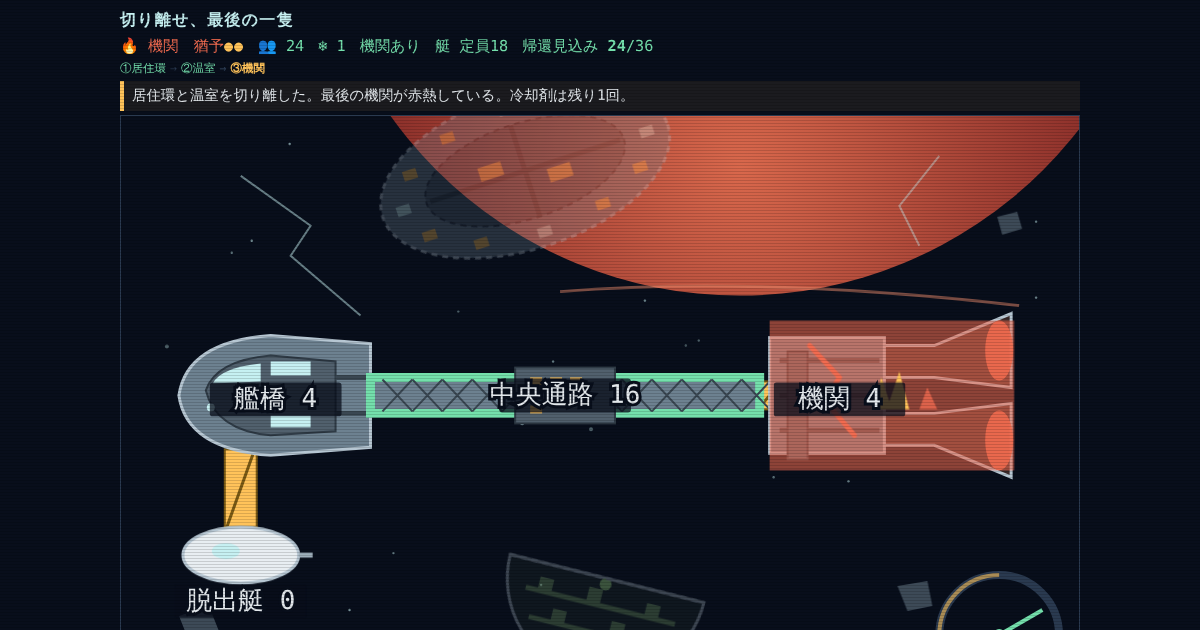
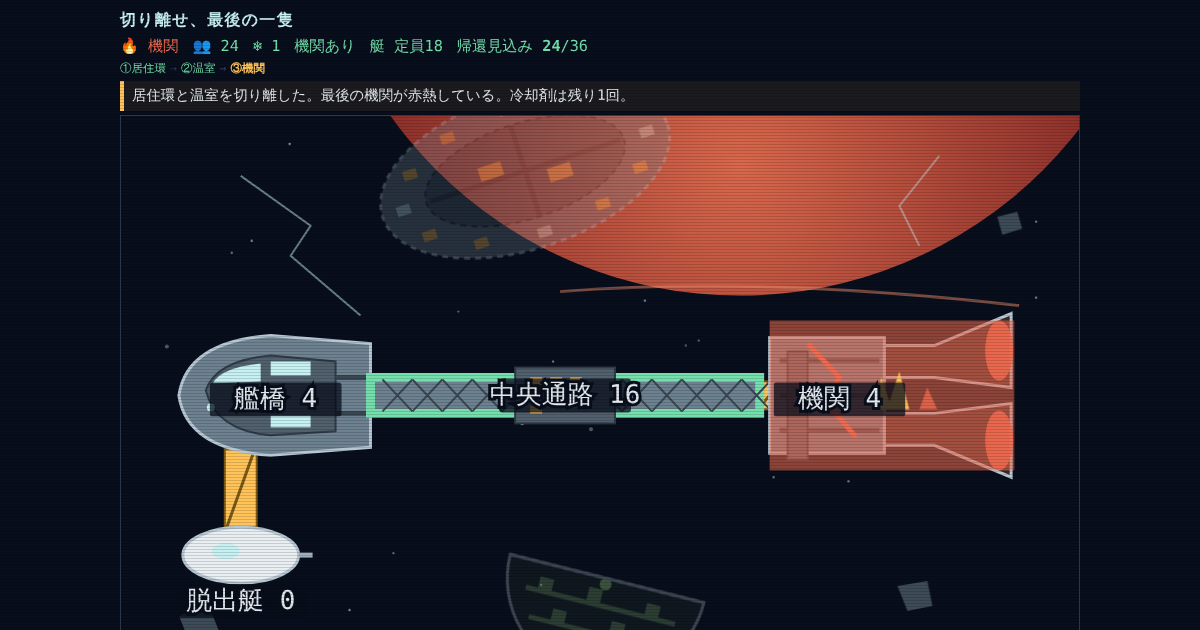
[FIX] 切り離せ、最後の一隻：残りの猶予を大きく分かりやすく表示
Claude-Session: https://claude.ai/code/session_01MokQntdd3n6K58QCqVKUx1

diff --git a/site/games/last-hull/game.js b/site/games/last-hull/game.js
@@ -80,17 +80,22 @@ function renderShip() {
   const pod = $('part-P');
   if (result && result.outcome === 'return' && result.means === 'pod' && result.returned > 0) pod.style.transform = 'translate(-30px,-8px)';
   else pod.style.transform = '';
-  const maxT = inc ? inc.turns : 3;
-  const ang = inc ? -60 + (state.turns / maxT) * 120 : -60;
-  $('needle').style.transform = `rotate(${Math.max(-60, Math.min(60, ang))}deg)`;
+  const maxT = inc ? inc.turns : 0;
+  for (let i = 0; i < 3; i += 1) {
+    const l = $(`lamp${i}`);
+    l.classList.toggle('off', i >= maxT);
+    l.classList.toggle('on', !!inc && i < state.turns);
+  }
+  $('timer').classList.toggle('last', !!inc && state.turns <= 1);
+  $('timer').classList.toggle('idle', !inc);
+  $('timerText').textContent = inc ? `あと${state.turns}手` : (result && result.outcome === 'lost' ? '尽きた' : '鎮火');
 }
 
 function renderStatus() {
   const sc = scenarioById(state.scenario);
   const inc = currentIncident(state);
-  const turns = inc ? '●'.repeat(state.turns) + '○'.repeat(Math.max(0, inc.turns - state.turns)) : '';
   const items = [
-    inc ? `<span class="it bad" title="現在の事故と猶予">🔥 ${NAMES[inc.at]}　猶予<em class="${state.turns <= 1 ? 'bad' : 'warn'}">${turns}</em></span>`
+    inc ? `<span class="it bad" title="燃えている区画">🔥 ${NAMES[inc.at]}</span>`
       : `<span class="it">${state.result?.outcome === 'lost' ? '船喪失' : '事故解消'}</span>`,
     `<span class="it" title="船内人数">👥 ${remaining(state)}</span>`,
     `<span class="it ${state.coolant ? '' : 'warn'}" title="冷却剤の残り">❄ ${state.coolant}</span>`,
@@ -130,17 +135,17 @@ function renderPanel() {
     h += pendingHtml(pv);
   } else {
     const burning = c && inc && inc.at === c;
-    h += `<div class="selhead"><span class="sh-name ${burning ? 'bad' : ''}">${burning ? '🔥' : '▸'} ${c ? NAMES[c] : '区画を選ぶ'}</span>${c ? `<span class="sh-n">${state.people[c]}人</span>` : ''}<span class="sh-tip">👆 船の絵の区画をタップで切り替え</span></div>`;
+    h += `<div class="selhead"><span class="sh-name ${burning ? 'bad' : ''}">${burning ? '🔥' : '▸'} ${c ? NAMES[c] : '区画を選ぶ'}</span>${c ? `<span class="sh-n">${state.people[c]}人</span>` : ''}<span class="tpill ${state.turns <= 1 ? 'last' : ''}">⏳ 猶予 あと<b>${state.turns}</b>手</span><span class="sh-tip">👆 船の絵の区画を押して切り替え</span></div>`;
     h += '<div class="acts">';
     if (c) {
       for (const to of evacTargets(state, c)) {
         const pr = preview(state, { type: 'evac', from: c, to });
-        h += btn(`act evac ${t === 'act' ? 'hint' : ''}`, `👥 ${NAMES[to]}へ逃がす<small>${pr.valid ? pr.moved : 0}人・猶予1</small>`, `data-evac="${c}:${to}" ${!pr.valid || ui.lock ? 'disabled' : ''}`);
+        h += btn(`act evac ${t === 'act' ? 'hint' : ''}`, `👥 ${NAMES[to]}へ逃がす<small>${pr.valid ? pr.moved : 0}人・猶予を1使う</small>`, `data-evac="${c}:${to}" ${!pr.valid || ui.lock ? 'disabled' : ''}`);
       }
       if (cutsOf(state, c).includes(c)) {
         const sv = preview(state, { type: 'cut', child: c });
         const also = sv.severed.filter((x) => x !== c).map((x) => NAMES[x]);
-        h += btn(`act cutbtn ${t === 'cut' ? 'hint' : ''}`, `✂ ${NAMES[c]}を切り離す<small>${also.length ? `${also.join('・')}ごと・` : ''}${sv.severedPeople}人を失う</small>`, `data-cut="${c}" ${ui.lock ? 'disabled' : ''}`);
+        h += btn(`act cutbtn ${t === 'cut' ? 'hint' : ''}`, `✂ ${NAMES[c]}を切り離す<small>${also.length ? `${also.join('・')}ごと・` : ''}${sv.severedPeople}人を失う・${sv.resolves ? '火も消える' : '猶予を1使う'}</small>`, `data-cut="${c}" ${ui.lock ? 'disabled' : ''}`);
       }
     }
     h += btn('act cool', `❄ ${NAMES[inc.at]}を冷やす<small>残り${state.coolant}回・猶予を使わない</small>`, `data-cool="1" ${state.coolant <= 0 || ui.lock ? 'disabled' : ''}`);

diff --git a/site/games/last-hull/ship.js b/site/games/last-hull/ship.js
@@ -64,7 +64,12 @@ const css = `
 .part.hint .hull{stroke:#FFC35A;stroke-width:7;animation:hint 1.1s ease-in-out infinite}
 .edge.hint .band{fill:#fff2b8;stroke:#FFC35A;stroke-width:5;animation:hint 1.1s ease-in-out infinite}
 @keyframes hint{0%,100%{stroke-opacity:.35}50%{stroke-opacity:1}}
-.needle{transform-origin:880px 520px;transition:transform .5s}
+.tbox{fill:#0B1424;stroke:#2A3A50;stroke-width:3}
+.tlab{fill:#93A3B0;font-size:22px}
+.lamp3{fill:#1b2636;stroke:#2A3A50;stroke-width:2}.lamp3.on{fill:#FFC35A;stroke:#ffe2a8}.lamp3.off{display:none}
+.timer.last .lamp3.on{fill:#F16B50;stroke:#ffd2c8;animation:flick .8s ease-in-out infinite}
+.ttxt{fill:#FFC35A;font-size:36px;font-weight:700;text-anchor:middle;paint-order:stroke;stroke:#080E1B;stroke-width:5px}
+.timer.last .ttxt{fill:#F16B50}.timer.idle .ttxt{fill:#74DFAC;font-size:28px}
 `;
 
 function stars() {
@@ -143,7 +148,10 @@ export function shipSvg() {
   <g id="shipbody"><g class="wake"><polygon points="900,205 960,215 900,235"/><polygon points="900,325 960,335 900,355"/></g>
   ${edges}${parts}</g>
   <g id="dots"></g>
-  <g transform="translate(0,0)"><path d="M820 520 A60 60 0 0 1 940 520" fill="none" stroke="#2A3A50" stroke-width="8"/><path d="M820 520 A60 60 0 0 1 880 460" fill="none" stroke="#FFC35A" stroke-width="4" opacity=".6"/><text x="880" y="552" fill="#93A3B0" font-size="22" text-anchor="middle">猶予</text><line id="needle" class="needle" x1="880" y1="520" x2="880" y2="470" stroke="#74DFAC" stroke-width="4"/><circle cx="880" cy="520" r="6" fill="#74DFAC"/></g>
+  <g id="timer" class="timer"><rect class="tbox" x="742" y="448" width="206" height="102" rx="6"/>
+    <text class="tlab" x="756" y="476">猶予</text>
+    <rect id="lamp0" class="lamp3" x="812" y="458" width="38" height="22" rx="3"/><rect id="lamp1" class="lamp3" x="856" y="458" width="38" height="22" rx="3"/><rect id="lamp2" class="lamp3" x="900" y="458" width="38" height="22" rx="3"/>
+    <text id="timerText" class="ttxt" x="845" y="532">あと2手</text></g>
 </svg>`;
 }
 export { OUTLINE, EDGE, NAMES };

diff --git a/site/games/last-hull/style.css b/site/games/last-hull/style.css
@@ -149,3 +149,10 @@ button.act.cool { border-color: #7fd6ff; color: #d8f3ff; background: linear-grad
 button.act.cutbtn { border-color: #c4553f; color: #ffd2c8; background: linear-gradient(#3a1814, #26100c); }
 .sh-tip { margin-left: 0; font-size: .8rem; color: var(--crt); opacity: .8; }
 @media (max-width: 640px) { .sh-tip { font-size: .74rem; } }
+
+/* 猶予：操作盤の見出しにも大きく */
+.tpill { margin-left: auto; padding: 2px 10px; border: 2px solid var(--amber); border-radius: 999px; color: var(--amber); font-size: .9rem; white-space: nowrap; }
+.tpill b { font-size: 1.25rem; margin: 0 2px; }
+.tpill.last { border-color: var(--fire); color: #ffd2c8; background: rgba(241,107,80,.18); animation: blink 1s steps(2) infinite; }
+.selhead { align-items: center; }
+.og #timer { display: none; }
